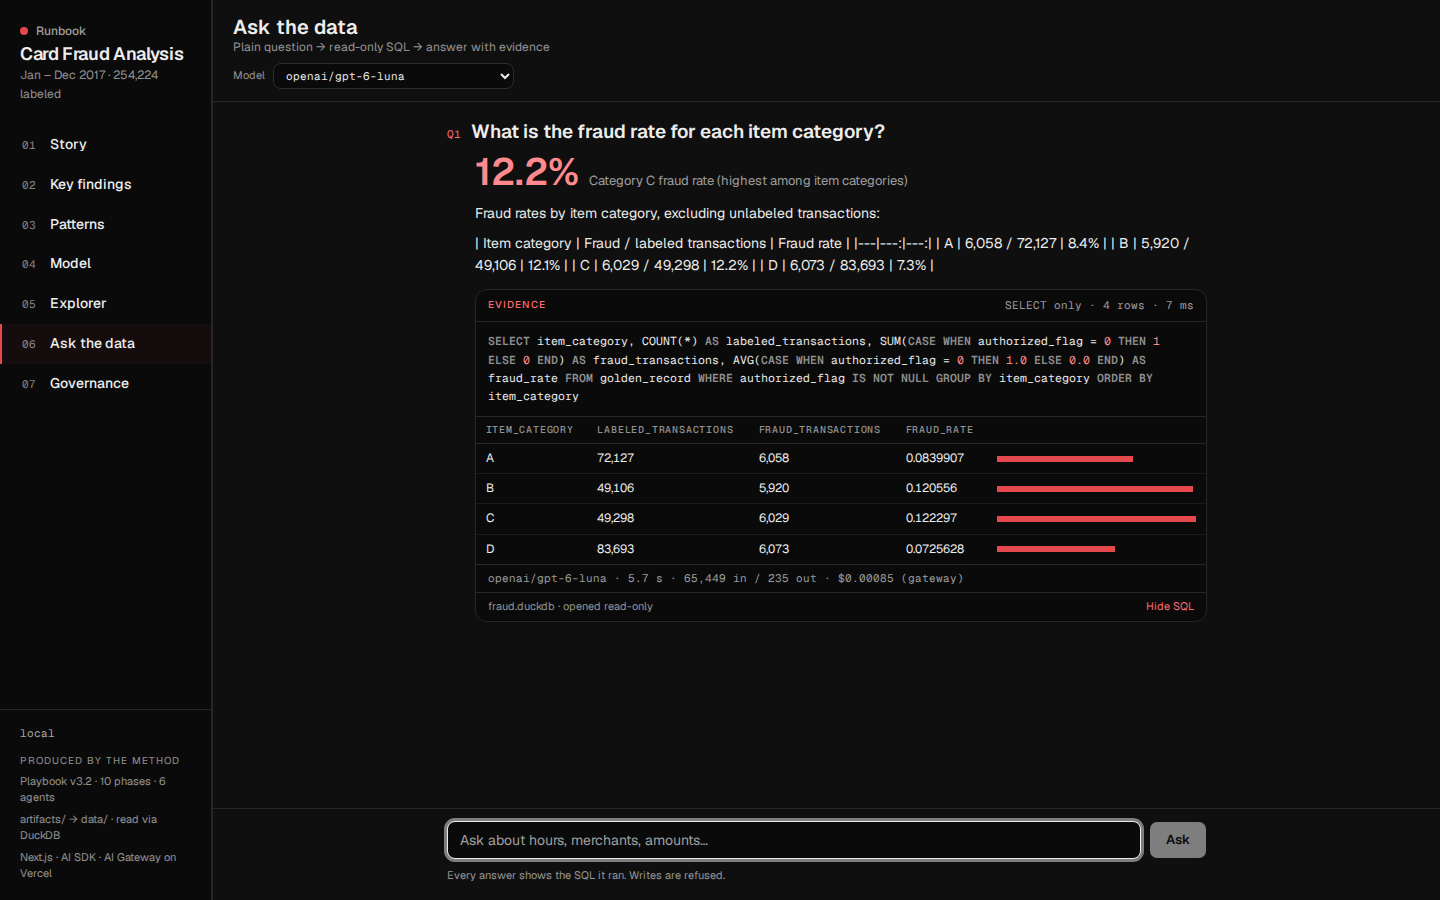
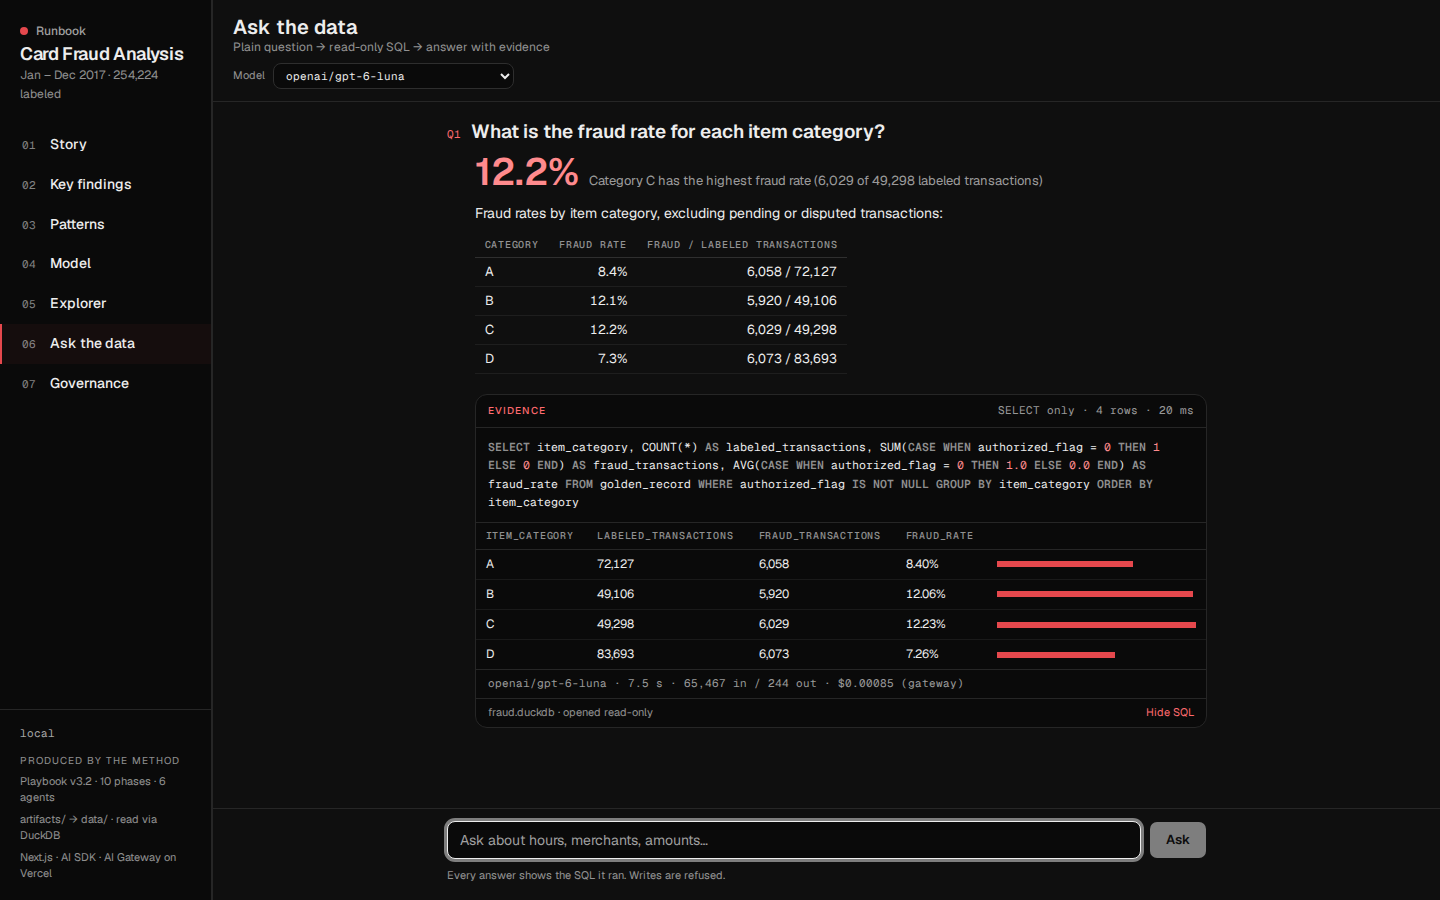
Ask: render answer tables (GFM) and show rate columns as percentages
The model often answers with a small markdown table; it rendered as raw pipes because
tables were disallowed and GFM was off. Rate/share/ratio columns in the evidence table
now render as percent instead of raw fractions. Fallback screenshots regenerated.

Claude-Session: https://claude.ai/code/session_01H7A5xcNUJUouFfBrebwvkY

diff --git a/components/ask/AskView.tsx b/components/ask/AskView.tsx
@@ -4,6 +4,7 @@ import { useEffect, useRef, useState, type FormEvent } from "react";
 import type { UIMessage } from "ai";
 import { PanelRightClose } from "lucide-react";
 import ReactMarkdown from "react-markdown";
+import remarkGfm from "remark-gfm";
 import { Button } from "@/components/ui/button";
 import { Input } from "@/components/ui/input";
 import type { AnswerMeta } from "@/lib/askConfig";
@@ -102,9 +103,14 @@ function Turn({ n, question, answer, live, streamError }: {
           </div>
         )}
         {done && text && (
-          <div className="text-[14px] leading-[1.55] text-pretty [&_li]:my-0.5 [&_p]:my-0 [&_p+p]:mt-2 [&_strong]:font-semibold [&_ul]:my-1 [&_ul]:list-disc [&_ul]:pl-5">
-            {/* The model bolds figures with **; allow only inline emphasis and lists, no raw HTML. */}
-            <ReactMarkdown allowedElements={["p", "strong", "em", "code", "ul", "ol", "li", "br"]} unwrapDisallowed>
+          <div className="text-[14px] leading-[1.55] text-pretty [&_li]:my-0.5 [&_p]:my-0 [&_p+p]:mt-2 [&_strong]:font-semibold [&_ul]:my-1 [&_ul]:list-disc [&_ul]:pl-5 [&_table]:my-2 [&_table]:border-collapse [&_table]:text-[13px] [&_th]:border-b [&_th]:border-foreground/15 [&_th]:px-2.5 [&_th]:py-1 [&_th]:text-left [&_th]:font-mono [&_th]:text-[10px] [&_th]:font-medium [&_th]:uppercase [&_th]:tracking-[0.08em] [&_th]:text-foreground/60 [&_td]:border-b [&_td]:border-foreground/[0.07] [&_td]:px-2.5 [&_td]:py-1 [&_td]:tabular-nums">
+            {/* The model bolds figures with ** and often answers with a small table (GFM). Allow inline
+                emphasis, lists and tables; no raw HTML. */}
+            <ReactMarkdown
+              remarkPlugins={[remarkGfm]}
+              allowedElements={["p", "strong", "em", "code", "ul", "ol", "li", "br", "table", "thead", "tbody", "tr", "th", "td"]}
+              unwrapDisallowed
+            >
               {text}
             </ReactMarkdown>
           </div>

diff --git a/components/ask/Evidence.tsx b/components/ask/Evidence.tsx
@@ -29,9 +29,17 @@ function tokenize(sql: string): { t: string; kind: "kw" | "num" | "str" | "txt" 
     });
 }
 
-function fmt(v: unknown): string {
+/** Columns whose name says they hold a 0–1 fraction (fraud_rate, share, ratio) render as percent. */
+const FRACTION_COL = /(^|_)(rate|share|ratio|proportion)(_|$)/i;
+const PERCENT_COL = /(^|_)(pct|percent)(_|$)/i;
+
+function fmt(v: unknown, column = ""): string {
   if (v === null || v === undefined) return "null";
-  if (typeof v === "number") return Number.isInteger(v) ? v.toLocaleString("en-US") : String(Number(v.toPrecision(6)));
+  if (typeof v === "number") {
+    if (PERCENT_COL.test(column)) return `${v.toFixed(2)}%`;
+    if (FRACTION_COL.test(column) && v >= 0 && v <= 1) return `${(v * 100).toFixed(2)}%`;
+    return Number.isInteger(v) ? v.toLocaleString("en-US") : String(Number(v.toPrecision(6)));
+  }
   return String(v);
 }
 
@@ -118,7 +126,7 @@ export function Evidence({ sql, output, errorText, pending, answerMeta }: {
               {shown.map((r, i) => (
                 <TableRow key={i} className="border-t border-foreground/[0.07] hover:bg-transparent">
                   {r.map((v, j) => (
-                    <TableCell key={j} className="tnum whitespace-nowrap px-2.5 py-1.5">{fmt(v)}</TableCell>
+                    <TableCell key={j} className="tnum whitespace-nowrap px-2.5 py-1.5">{fmt(v, ok.columns[j])}</TableCell>
                   ))}
                   {barCol >= 0 && (
                     <TableCell className="px-2.5 py-1.5">
